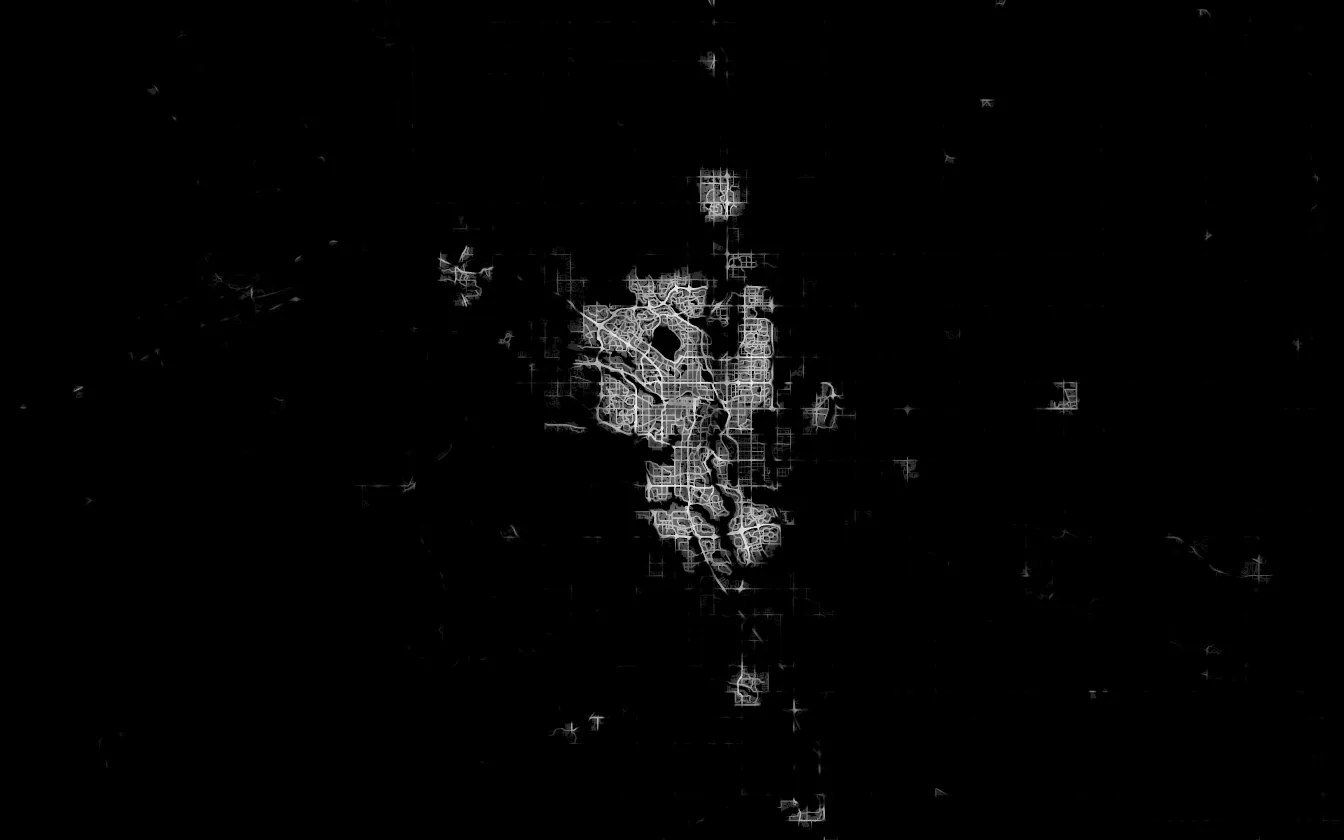
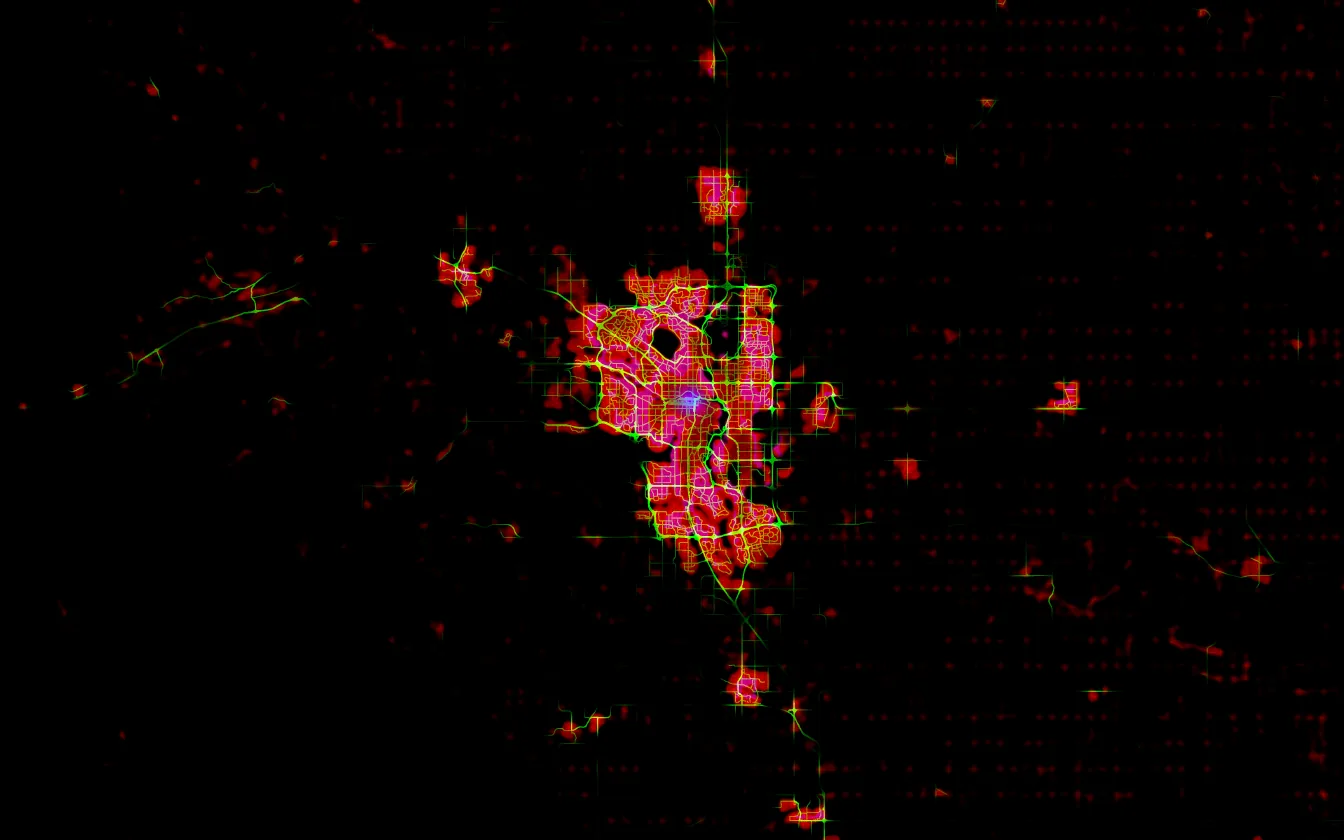
v6: city lights like the view from a plane
Night is now just the lights, as Calgary looks from the air: no blue
moonlit ground. Lights come in three kinds: homes and buildings glitter in
warm white, gold, and some cool white (each spot its own brightness, some
dark); major roads are sodium-orange lines and other roads golden white;
and downtown is bright white with the odd blue, pink, or green sign. Roads
keep their brightest light across each character's patch, so they stay
unbroken lines. The Calgary label is gone.

diff --git a/sky-renderer.js b/sky-renderer.js
@@ -78,26 +78,34 @@ window.createSkyRenderer = function(gl, {cellWidth, cellHeight, planetRow}) {
     if(inBox(at))colour=mix(colour,averaged(centre,at,radians(CENTRE.y-CENTRE.x),cellAngle).rgb,layers.w);
     return colour;
   }
-  // How brightly a cell's ground is lit at night: the brightest light anywhere in the patch it covers (sampled finer
-  // than averaged() and at four spots around the middle as well), so a thin bright street stays an unbroken line.
-  // reach: a quarter of a cell or so, in the map's own units.
+  // A road's brightest light anywhere in the patch a cell covers (sampled finer than averaged() and at four spots
+  // around the middle as well), so a thin bright road stays an unbroken line. reach: a quarter of a cell or so, in the
+  // map's own units.
   float brightest(sampler2D map,vec2 uv,float span,float cellAngle,vec2 reach){
     float lod=max(0.0,log2(float(textureSize(map,0).x)/span*cellAngle)-1.5);
-    float v=max(textureLod(map,uv,lod).r,textureLod(map,uv+reach,lod).r);
-    v=max(v,max(textureLod(map,uv-reach,lod).r,textureLod(map,uv+vec2(reach.x,-reach.y),lod).r));
-    return max(v,textureLod(map,uv+vec2(-reach.x,reach.y),lod).r);
+    float v=max(textureLod(map,uv,lod).g,textureLod(map,uv+reach,lod).g);
+    v=max(v,max(textureLod(map,uv-reach,lod).g,textureLod(map,uv+vec2(reach.x,-reach.y),lod).g));
+    return max(v,textureLod(map,uv+vec2(-reach.x,reach.y),lod).g);
   }
-  // Light at night: NASA's for southern Alberta, then Calgary's streets (cell: a cell's size in degrees). Night only
-  // falls once southern Alberta fills the screen.
-  float nightLight(vec2 deg,float cellAngle,vec2 cell){
+  // A light map at a cell: homes and buildings, roads (unbroken), and the busiest places (span: the map's size in
+  // degrees; cell: a cell's).
+  vec3 lightsAt(sampler2D map,vec2 at,vec2 span,float cellAngle,vec2 cell){
+    vec4 around=averaged(map,at,radians(span.x),cellAngle);
+    return vec3(around.r,brightest(map,at,radians(span.x),cellAngle,cell/span*.25),around.b);
+  }
+  // Lights at night: NASA's for southern Alberta, then Calgary's. Night only falls once southern Alberta fills the
+  // screen.
+  vec3 nightLight(vec2 deg,float cellAngle,vec2 cell){
     vec2 span=vec2(AREA.y-AREA.x,AREA.w-AREA.z);
-    float light=brightest(areaNight,boxUv(deg,AREA),radians(span.x),cellAngle,cell/span*.35);
+    vec3 light=lightsAt(areaNight,boxUv(deg,AREA),span,cellAngle,cell);
     vec2 at=boxUv(deg,CALGARY);span=vec2(CALGARY.y-CALGARY.x,CALGARY.w-CALGARY.z);
-    if(inBox(at))light=mix(light,brightest(calgaryNight,at,radians(span.x),cellAngle,cell/span*.35),layers.z);
+    if(inBox(at))light=mix(light,lightsAt(calgaryNight,at,span,cellAngle,cell),layers.z);
     at=boxUv(deg,CENTRE);span=vec2(CENTRE.y-CENTRE.x,CENTRE.w-CENTRE.z);
-    if(inBox(at))light=mix(light,brightest(centreNight,at,radians(span.x),cellAngle,cell/span*.35),layers.w);
+    if(inBox(at))light=mix(light,lightsAt(centreNight,at,span,cellAngle,cell),layers.w);
     return light;
   }
+  // A steady random number for a spot on the ground.
+  float hash(vec2 p){vec3 q=fract(p.xyx*.1031);q+=dot(q,q.yzx+33.33);return fract((q.x+q.y)*q.z);}
   // Saturn's rings, tilted a little: the dusky C ring, the B ring (warmer inside, brightest outside), the dark
   // Cassini division, and the grey-tan A ring.
   bool ring(vec2 d,float r,out int ch,out int row,out float alpha,out bool front){
@@ -159,12 +167,19 @@ window.createSkyRenderer = function(gl, {cellWidth, cellHeight, planetRow}) {
       tint=mix(mix(vivid,vec3(.95,.97,1.0),smoothstep(.18,.42,cloud)*.55),vec3(1.0,.97,.9),glint);
       if(fine&&wet)tint=mix(tint,vec3(.3,.58,.95),.65);
       if(nightfall>0.0&&fine){
-        // As night falls the ground fades to black and the lights come on, the brightest first, as seen from orbit:
-        // faint streets as dots, brighter ones as lines, orange where the light is dim and white where it is bright.
-        float glow=nightLight(deg,cellAngle,degrees(CELL/radius)*vec2(1.0/max(.05,cos(lat)),1.0));
-        if(glow>.06&&nightfall>fract(threshold*7.31)*(.75-.6*glow)){
-          ch=lamp(glow);alpha=(.62+.38*glow)*smoothstep(0.0,.35,nightfall);
-          tint=mix(mix(vec3(1.0,.62,.28),vec3(1.0,.92,.8),smoothstep(.12,.42,glow)),vec3(1.0,.98,.95),smoothstep(.6,.9,glow));
+        // As night falls the ground fades to black and the lights come on, the brightest first, as seen from a plane:
+        // homes and buildings glitter in warm white, orange, and some cool white (each spot its own brightness, some
+        // dark); major roads are sodium-orange lines and other roads golden white; downtown is bright white with the
+        // odd blue, pink, or green sign.
+        vec3 night=nightLight(deg,cellAngle,degrees(CELL/radius)*vec2(1.0/max(.05,cos(lat)),1.0));
+        vec2 spot=floor(deg*vec2(1000.0,1600.0));
+        float sparkle=hash(spot),pick=hash(spot+vec2(17.0,31.0));
+        float homes=night.x*(.15+.85*sparkle*sparkle)*step(.33,sparkle),busy=night.z*(.6+.5*sparkle),glow=max(homes,max(night.y,busy));
+        if(glow>.1&&nightfall>fract(threshold*7.31)*(.75-.6*min(glow,1.0))){
+          tint=pick<.55?vec3(1.0,.88,.66):pick<.85?vec3(1.0,.72,.38):vec3(.9,.94,1.0);
+          if(busy>=homes&&busy>=night.y)tint=pick<.1?vec3(.42,.62,1.0):pick<.15?vec3(1.0,.42,.86):pick<.19?vec3(.48,1.0,.62):vec3(1.0,.97,.92);
+          else if(night.y>=homes)tint=mix(vec3(1.0,.88,.66),vec3(1.0,.58,.2),smoothstep(.72,.95,night.y));
+          ch=lamp(min(glow,1.0));alpha=(.6+.4*min(glow,1.0))*smoothstep(0.0,.35,nightfall);
         }else{
           alpha*=pow(1.0-nightfall,1.5);
           if(alpha<.04)ch=-1;

diff --git a/index.html b/index.html
@@ -25,7 +25,7 @@
   <!-- tools/build-projects.mjs stamps each ?v= with a hash of the file, so browsers fetch it again when it changes. -->
   <link rel="stylesheet" href="styles.css?v=50e7bc467d">
   <link rel="stylesheet" href="projects.css?v=c8998135ab">
-  <script src="sky-renderer.js?v=b1f79fb8e6" defer></script>
+  <script src="sky-renderer.js?v=834006a2ae" defer></script>
   <script src="galaxy.js?v=20302f3e57" defer></script>
   <script src="site.js?v=d46df26e85" defer></script>
   <script src="app.js?v=d3e52f405c" defer></script>

diff --git a/projects/calgary-ace/index.html b/projects/calgary-ace/index.html
@@ -25,7 +25,7 @@
   <link rel="stylesheet" href="https://fonts.googleapis.com/css2?family=JetBrains+Mono:wght@500&text=.%2C%3A%3B-%3D%2B*%23%25%40v&display=block">
   <link rel="stylesheet" href="/styles.css?v=50e7bc467d">
   <link rel="stylesheet" href="/projects.css?v=c8998135ab">
-  <script src="/sky-renderer.js?v=b1f79fb8e6" defer></script>
+  <script src="/sky-renderer.js?v=834006a2ae" defer></script>
   <script src="/galaxy.js?v=20302f3e57" defer></script>
   <script src="/site.js?v=d46df26e85" defer></script>
 </head>

diff --git a/projects/cpp-ray-tracer/index.html b/projects/cpp-ray-tracer/index.html
@@ -25,7 +25,7 @@
   <link rel="stylesheet" href="https://fonts.googleapis.com/css2?family=JetBrains+Mono:wght@500&text=.%2C%3A%3B-%3D%2B*%23%25%40v&display=block">
   <link rel="stylesheet" href="/styles.css?v=50e7bc467d">
   <link rel="stylesheet" href="/projects.css?v=c8998135ab">
-  <script src="/sky-renderer.js?v=b1f79fb8e6" defer></script>
+  <script src="/sky-renderer.js?v=834006a2ae" defer></script>
   <script src="/galaxy.js?v=20302f3e57" defer></script>
   <script src="/site.js?v=d46df26e85" defer></script>
 </head>

diff --git a/projects/index.html b/projects/index.html
@@ -25,7 +25,7 @@
   <link rel="stylesheet" href="https://fonts.googleapis.com/css2?family=JetBrains+Mono:wght@500&text=.%2C%3A%3B-%3D%2B*%23%25%40v&display=block">
   <link rel="stylesheet" href="/styles.css?v=50e7bc467d">
   <link rel="stylesheet" href="/projects.css?v=c8998135ab">
-  <script src="/sky-renderer.js?v=b1f79fb8e6" defer></script>
+  <script src="/sky-renderer.js?v=834006a2ae" defer></script>
   <script src="/galaxy.js?v=20302f3e57" defer></script>
   <script src="/site.js?v=d46df26e85" defer></script>
 </head>

diff --git a/projects/signed/index.html b/projects/signed/index.html
@@ -25,7 +25,7 @@
   <link rel="stylesheet" href="https://fonts.googleapis.com/css2?family=JetBrains+Mono:wght@500&text=.%2C%3A%3B-%3D%2B*%23%25%40v&display=block">
   <link rel="stylesheet" href="/styles.css?v=50e7bc467d">
   <link rel="stylesheet" href="/projects.css?v=c8998135ab">
-  <script src="/sky-renderer.js?v=b1f79fb8e6" defer></script>
+  <script src="/sky-renderer.js?v=834006a2ae" defer></script>
   <script src="/galaxy.js?v=20302f3e57" defer></script>
   <script src="/site.js?v=d46df26e85" defer></script>
 </head>

diff --git a/projects/uwaft/index.html b/projects/uwaft/index.html
@@ -25,7 +25,7 @@
   <link rel="stylesheet" href="https://fonts.googleapis.com/css2?family=JetBrains+Mono:wght@500&text=.%2C%3A%3B-%3D%2B*%23%25%40v&display=block">
   <link rel="stylesheet" href="/styles.css?v=50e7bc467d">
   <link rel="stylesheet" href="/projects.css?v=c8998135ab">
-  <script src="/sky-renderer.js?v=b1f79fb8e6" defer></script>
+  <script src="/sky-renderer.js?v=834006a2ae" defer></script>
   <script src="/galaxy.js?v=20302f3e57" defer></script>
   <script src="/site.js?v=d46df26e85" defer></script>
 </head>

diff --git a/projects/uwasic/index.html b/projects/uwasic/index.html
@@ -25,7 +25,7 @@
   <link rel="stylesheet" href="https://fonts.googleapis.com/css2?family=JetBrains+Mono:wght@500&text=.%2C%3A%3B-%3D%2B*%23%25%40v&display=block">
   <link rel="stylesheet" href="/styles.css?v=50e7bc467d">
   <link rel="stylesheet" href="/projects.css?v=c8998135ab">
-  <script src="/sky-renderer.js?v=b1f79fb8e6" defer></script>
+  <script src="/sky-renderer.js?v=834006a2ae" defer></script>
   <script src="/galaxy.js?v=20302f3e57" defer></script>
   <script src="/site.js?v=d46df26e85" defer></script>
 </head>

diff --git a/projects/vex-robotics/index.html b/projects/vex-robotics/index.html
@@ -25,7 +25,7 @@
   <link rel="stylesheet" href="https://fonts.googleapis.com/css2?family=JetBrains+Mono:wght@500&text=.%2C%3A%3B-%3D%2B*%23%25%40v&display=block">
   <link rel="stylesheet" href="/styles.css?v=50e7bc467d">
   <link rel="stylesheet" href="/projects.css?v=c8998135ab">
-  <script src="/sky-renderer.js?v=b1f79fb8e6" defer></script>
+  <script src="/sky-renderer.js?v=834006a2ae" defer></script>
   <script src="/galaxy.js?v=20302f3e57" defer></script>
   <script src="/site.js?v=d46df26e85" defer></script>
 </head>

diff --git a/tools/make-earth-maps.py b/tools/make-earth-maps.py
@@ -6,8 +6,8 @@
   area.webp            southern Alberta at about 750 m (AREA below; NASA VIIRS, 9 July 2024)
   calgary.webp         the Calgary area at about 125 m (CALGARY below; NASA HLS Sentinel-2, 9 July 2024)
   centre.webp          central Calgary at about 40 m, where the dive ends (CENTRE below; the same)
-  area-night.webp      southern Alberta's light at night, grey (NASA Black Marble, VIIRS, 2016): night falls on the way down
-  calgary-night.webp   Calgary's light at night at about 125 m, grey, drawn from OpenStreetMap streets
+  area-night.webp      southern Alberta's lights at night by kind (NASA Black Marble, VIIRS, 2016; see night_lights)
+  calgary-night.webp   Calgary's lights at night by kind at about 125 m, drawn from OpenStreetMap streets
   centre-night.webp    the same for central Calgary at about 40 m
   clouds.jpg           512×256    cloud cover, grey (NASA Blue Marble clouds)
   lights.jpg           1024×512   city lights on the globe's night side, grey (NASA Black Marble 2016)
@@ -57,6 +57,7 @@ AREA = dict(west=-119.6, east=-108.6, south=48.28, north=53.78)
 CALGARY = dict(west=-115.3, east=-112.9, south=50.55, north=51.5)
 CENTRE = dict(west=-114.33, east=-113.81, south=50.915, north=51.185)
 STREET_METRES = 35                                                      # street lights are drawn at this size
+DOWNTOWN = (51.047, -114.066)                                           # lat, lon
 
 
 def size(box, metres):
@@ -119,46 +120,54 @@ def night(sources):
 
 
 def night_lights(sources):
-    """How brightly each place is lit at night (grey, 0 to 255), as seen from orbit: nothing but the lights.
+    """The lights at night, as seen from a plane, in three kinds (each 0 to 255): red is the glow of homes and buildings
+    across the built-up city, green the street lights along roads, and blue the brightest, busiest places (downtown,
+    shopping and industrial areas). sky-renderer.js colours each kind its own way; parks, rivers, and open land stay
+    dark.
 
-    Southern Alberta's comes from NASA's night photo (its warm city light above the dark ground, leaving out moonlit
-    snow). Calgary's is drawn from its streets, the way cities look from the space station: major roads bright,
-    smaller roads fainter, side streets faint, downtown and the busiest places brightest, all a little brighter where
-    NASA's photo is, and nothing between the streets or along roads through farmland and the mountains."""
+    Southern Alberta's lights come from NASA's night photo (its warm city light above the dark ground, leaving out
+    moonlit snow). Calgary's are drawn from its streets: built-up places from how many local streets they have, roads
+    from the major and other through roads, and the busiest places from where NASA's photo is brightest."""
     area = np.asarray(Image.open(sources / 'area-night.jpg').convert('RGB'), dtype=float)
     luma = area @ [.299, .587, .114]
     warm = np.clip((area[..., 0] - area[..., 2] + 5) / 25, 0, 1)
     glow = np.clip((luma - np.percentile(luma, 60)) * warm / 200, 0, 1)
-    Image.fromarray((glow * 255).astype(np.uint8)).resize((1024, 820), Image.LANCZOS).convert('RGB').save(OUT / 'area-night.webp', quality=82, method=6)
+    kinds = np.stack([glow, glow * .5, smoothstep(.8, 1, glow)], axis=-1)
+    Image.fromarray((kinds * 255).astype(np.uint8)).resize((1024, 820), Image.LANCZOS).save(OUT / 'area-night.webp', quality=82, method=6)
 
     width, height = size(CALGARY, STREET_METRES)
     xy = lambda p: ((p['lon'] - CALGARY['west']) / (CALGARY['east'] - CALGARY['west']) * width,
                     (CALGARY['north'] - p['lat']) / (CALGARY['north'] - CALGARY['south']) * height)
-    streets, blocks = Image.new('L', (width, height), 0), Image.new('L', (width, height), 0)
-    draw, outline = ImageDraw.Draw(streets), ImageDraw.Draw(blocks)
-    for name, value, line in [('minor', 60, 1), ('medium', 150, 2), ('major', 255, 3)]:
+    roads, local = Image.new('L', (width, height), 0), Image.new('L', (width, height), 0)
+    draw = {'roads': ImageDraw.Draw(roads), 'local': ImageDraw.Draw(local)}
+    for name, value, line in [('minor', 255, 1), ('medium', 170, 1), ('major', 255, 2)]:
         for way in json.loads((sources / f'{name}.json').read_text(encoding='utf8'))['elements']:
             points = [xy(p) for p in way.get('geometry', [])]
             if len(points) > 1:
-                draw.line(points, fill=value, width=line)
-                if name != 'major':
-                    outline.line(points, fill=255, width=1)
-    # How built up each place is (how much local street there is within about 350 m, so highways through farmland
-    # don't count), and the busiest places (within about a kilometre).
-    built = np.asarray(blocks.filter(ImageFilter.GaussianBlur(10)), dtype=float)
-    busy = np.asarray(blocks.filter(ImageFilter.GaussianBlur(30)), dtype=float)
-    city = smoothstep(14, 40, built) * (1 + smoothstep(45, 85, busy))
+                draw['local' if name == 'minor' else 'roads'].line(points, fill=value, width=line)
+    # How built up each place is: how much local street there is within about 350 m (so highways through farmland
+    # don't count), and a little more widely for which roads are lit.
+    streets = np.asarray(local, dtype=float)
+    built = smoothstep(10, 30, np.asarray(local.filter(ImageFilter.GaussianBlur(10)), dtype=float))
+    around = smoothstep(4, 18, np.asarray(local.filter(ImageFilter.GaussianBlur(25)), dtype=float))
     nasa = np.asarray(crop(Image.fromarray((glow * 255).astype(np.uint8)), AREA, CALGARY).resize((width, height), Image.BICUBIC), dtype=float) / 255
-    light = np.asarray(streets, dtype=float) * city * (.55 + .45 * nasa)
-    light = 255 * (1 - np.exp(-light / 220))
-    return Image.fromarray(light.astype(np.uint8))
+    homes = np.clip(built * (.42 + .3 * nasa) + streets / 255 * built * .3, 0, 1)
+    lit_roads = np.asarray(roads, dtype=float) / 255 * around * (.75 + .25 * nasa)
+    # Downtown (about a kilometre around its middle) and the very brightest places in NASA's photo.
+    x, y = xy(dict(lat=DOWNTOWN[0], lon=DOWNTOWN[1]))
+    reach = 1300 / STREET_METRES
+    downtown = np.outer(np.exp(-((np.arange(height) - y) / reach) ** 2 / 2), np.exp(-((np.arange(width) - x) / reach) ** 2 / 2))
+    busiest = np.maximum(downtown, .5 * smoothstep(.97, 1, nasa)) * built
+    return Image.fromarray((np.stack([homes, np.clip(lit_roads, 0, 1), busiest], axis=-1) * 255).astype(np.uint8))
 
 
-def save_lights(streets):
-    # The wider map keeps each street's full brightness (the brightest 105 m in each pixel) rather than averaging it
-    # away, so streets stay bright lines on the way down.
-    streets.filter(ImageFilter.MaxFilter(3)).resize(size(CALGARY, 125), Image.BOX).convert('RGB').save(OUT / 'calgary-night.webp', quality=82, method=6)
-    crop(streets, CALGARY, CENTRE).resize(size(CENTRE, 40), Image.BOX).convert('RGB').save(OUT / 'centre-night.webp', quality=82, method=6)
+def save_lights(lights):
+    # The wider map keeps each road's full brightness (the brightest 105 m in each pixel) rather than averaging it
+    # away, so roads stay bright lines on the way down.
+    homes, roads, busiest = lights.split()
+    wide = Image.merge('RGB', [homes, roads.filter(ImageFilter.MaxFilter(3)), busiest])
+    wide.resize(size(CALGARY, 125), Image.BOX).save(OUT / 'calgary-night.webp', quality=82, method=6)
+    crop(lights, CALGARY, CENTRE).resize(size(CENTRE, 40), Image.BOX).save(OUT / 'centre-night.webp', quality=82, method=6)
 
 
 def photos(sources):

diff --git a/README.md b/README.md
@@ -119,7 +119,7 @@ To check galleries, content validation, local links, `?v=` stamps, favicons and 
 - `site.js`: shared reveal effects, the About photo drift, the side navigation, and the footer year.
 - `galaxy.js`: the shared ASCII sky (the Milky Way, and the planets app.js places) and the motion preference on every page. Stars and planets share one canvas and one text grid, one character per cell.
 - `sky-renderer.js`: draws that sky on the GPU (WebGL2); without it, galaxy.js draws on a 2D canvas.
-- `app.js`: homepage planets (Saturn, Jupiter, Earth) and scroll effects. Scrolling turns Earth to Calgary and dives in, past the whole city, to central Calgary, as night falls and the city's lights come on; the "Calgary" label (`.place` in `index.html`) fades in as the camera settles. Earth is drawn from photos (in the site's green and blue on the 2D canvas, without the dusk).
-- `assets/earth/`: Earth's photos by day and by night, clouds, and the globe's night lights, made by `tools/make-earth-maps.py` (the sources are listed at the top of the script; it needs `pip install pillow numpy`). The dive passes through nested photos, each sharper and matched to the one before: the whole globe (Blue Marble), around Alberta, southern Alberta (VIIRS by day, Black Marble by night), the Calgary area, and central Calgary (Sentinel-2 via NASA HLS, 9 July 2024). Each fades in only once it covers the whole screen, so no edge ever shows. Calgary's night versions are its photos by moonlight with NASA's night light gathered onto OpenStreetMap streets. The homepage footer credits NASA, the Copernicus Sentinel data, and OpenStreetMap; keep those credits if you change it.
+- `app.js`: homepage planets (Saturn, Jupiter, Earth) and scroll effects. Scrolling turns Earth to Calgary and dives in, past the whole city, to central Calgary, as night falls and the city's lights come on. Earth is drawn from photos (in the site's green and blue on the 2D canvas, without the dusk).
+- `assets/earth/`: Earth's photos by day and by night, clouds, and the globe's night lights, made by `tools/make-earth-maps.py` (the sources are listed at the top of the script; it needs `pip install pillow numpy`). The dive passes through nested photos, each sharper and matched to the one before: the whole globe (Blue Marble), around Alberta, southern Alberta (VIIRS by day, Black Marble by night), the Calgary area, and central Calgary (Sentinel-2 via NASA HLS, 9 July 2024). Each fades in only once it covers the whole screen, so no edge ever shows. At night the ground goes dark and Calgary's lights come on in three kinds drawn from OpenStreetMap streets and NASA's night photo: homes and buildings (a glittering carpet), roads (major ones sodium orange), and downtown (bright white with coloured signs). The homepage footer credits NASA, the Copernicus Sentinel data, and OpenStreetMap; keep those credits if you change it.
 
 Project drafts were adapted from the supplied resumes. The `uwasic` page covers both the functional-unit control RTL and the SPI/PWM onboarding peripheral (its own section). Until there's an image of the functional-unit control work, its cover is the peripheral's GDS layout, which stays in `assets/projects/spi-pwm-peripheral/`. Illustrations are symbolic, not project screenshots. Replace them with your own images as they become available.
